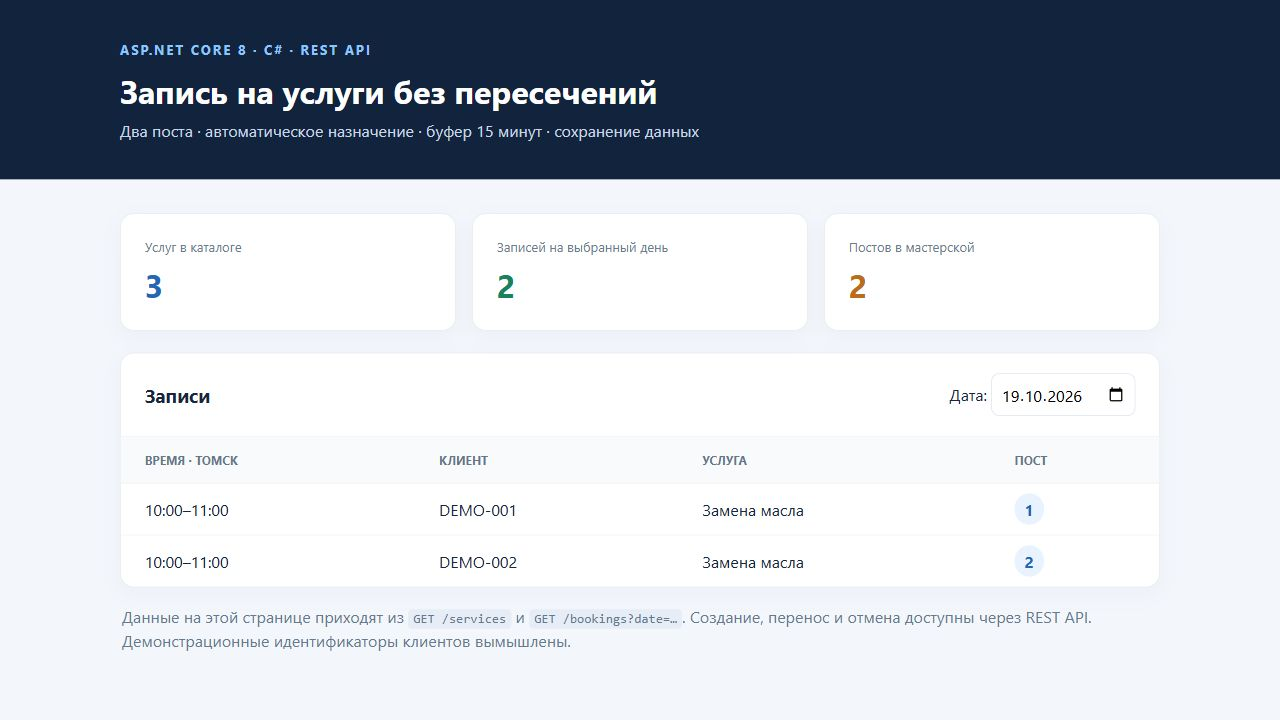
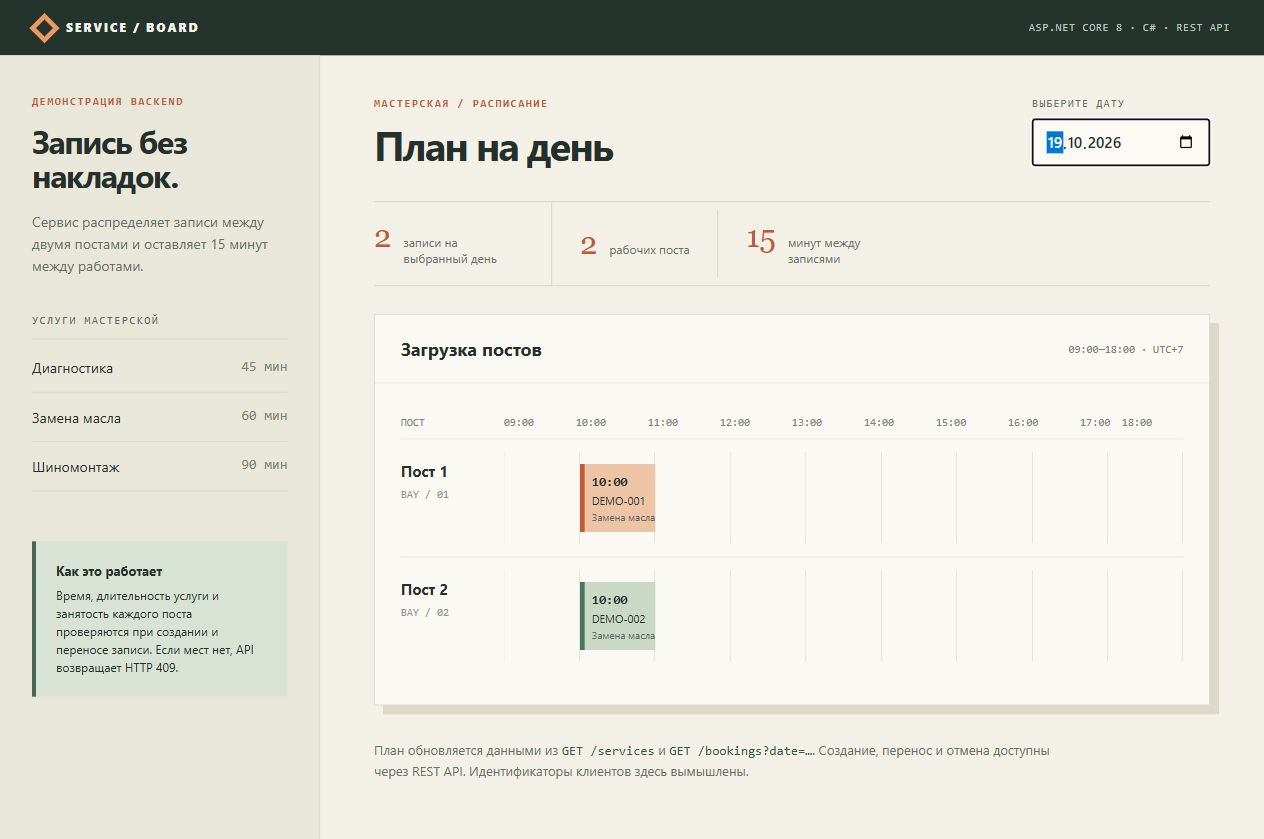
Redesign booking demo as workshop schedule

diff --git a/BookingApi/wwwroot/index.html b/BookingApi/wwwroot/index.html
@@ -3,79 +3,137 @@
 <head>
   <meta charset="utf-8">
   <meta name="viewport" content="width=device-width, initial-scale=1">
-  <title>Service Booking API — демонстрация</title>
+  <title>Service Booking API — расписание мастерской</title>
   <style>
-    :root { color-scheme: light; font-family: Inter, Segoe UI, Arial, sans-serif; }
-    body { margin: 0; background: #f3f6fb; color: #18263b; }
-    header { background: #12243d; color: white; padding: 38px max(30px, calc((100vw - 1040px)/2)); }
-    header small { letter-spacing: .14em; color: #8ec5ff; font-weight: 700; }
-    h1 { margin: 10px 0 8px; font-size: 32px; }
-    header p { margin: 0; color: #c9d6e7; }
-    main { max-width: 1040px; margin: 34px auto; padding: 0 20px; }
-    .cards { display: grid; grid-template-columns: repeat(3, 1fr); gap: 16px; }
-    .card, .panel { background: white; border: 1px solid #e3e9f1; border-radius: 14px; box-shadow: 0 7px 22px #1b365008; }
-    .card { padding: 24px; }
-    .label { color: #6b7b90; font-size: 13px; }
-    .value { font-size: 32px; font-weight: 700; margin-top: 8px; }
-    .blue { color: #2366b6; } .green { color: #18825e; } .orange { color: #bc6a1c; }
-    .panel { margin-top: 22px; overflow: hidden; }
-    .panel-header { display: flex; align-items: center; justify-content: space-between; padding: 20px 24px; }
-    h2 { margin: 0; font-size: 19px; }
-    input { border: 1px solid #d8e1ed; border-radius: 8px; padding: 9px; font: inherit; }
-    table { border-collapse: collapse; width: 100%; }
-    th, td { text-align: left; padding: 15px 24px; border-top: 1px solid #edf1f6; }
-    th { background: #f8fafc; font-size: 12px; color: #65768a; text-transform: uppercase; }
-    .badge { background: #e9f3ff; color: #2366b6; border-radius: 999px; padding: 5px 10px; font-weight: 700; }
-    .note { color: #667990; margin: 17px 2px; line-height: 1.5; }
-    code { background: #e7edf6; padding: 2px 5px; border-radius: 4px; }
-    @media (max-width: 650px) { .cards { grid-template-columns: 1fr; } th,td { padding: 12px; } .panel-header { display: block; } input { margin-top: 12px; } }
+    :root { font-family: "Segoe UI", Arial, sans-serif; color: #26302b; background: #f3f0e8; }
+    * { box-sizing: border-box; }
+    body { margin: 0; }
+    .masthead { height: 55px; display: flex; align-items: center; justify-content: space-between; padding: 0 34px; background: #24342d; color: #f4f1e8; }
+    .brand { display: flex; align-items: center; gap: 11px; font-size: 12px; font-weight: 800; letter-spacing: .16em; }
+    .brand-mark { width: 21px; height: 21px; border: 5px solid #ec9a64; transform: rotate(45deg); }
+    .masthead-note { font-family: Consolas, monospace; font-size: 11px; letter-spacing: .06em; color: #b9c8b9; }
+    .layout { max-width: 1440px; min-height: calc(100vh - 55px); margin: auto; display: grid; grid-template-columns: 320px minmax(0, 1fr); }
+    aside { padding: 40px 32px; background: #e9e6da; border-right: 1px solid #d4d0c4; }
+    .eyebrow { color: #bd5b37; font-family: Consolas, monospace; font-size: 11px; font-weight: 700; letter-spacing: .14em; text-transform: uppercase; }
+    aside h1 { font-size: 32px; line-height: 1.08; letter-spacing: -.045em; margin: 16px 0 18px; }
+    .intro { color: #647066; line-height: 1.55; font-size: 14px; margin: 0 0 38px; }
+    .section-title { color: #5c675d; font-family: Consolas, monospace; font-size: 11px; letter-spacing: .13em; text-transform: uppercase; border-bottom: 1px solid #c9cabf; padding-bottom: 12px; margin-bottom: 4px; }
+    .service { display: flex; justify-content: space-between; gap: 12px; padding: 15px 0; border-bottom: 1px solid #d4d1c7; font-size: 14px; }
+    .service span:last-child { color: #777e72; font-family: Consolas, monospace; white-space: nowrap; }
+    .sidebar-bottom { margin-top: 50px; padding: 20px; background: #d9e3d5; border-left: 4px solid #476755; font-size: 12px; line-height: 1.5; }
+    .sidebar-bottom strong { display: block; font-size: 13px; margin-bottom: 6px; }
+    .workspace { min-width: 0; padding: 42px 54px 45px; }
+    .topline { display: flex; align-items: end; justify-content: space-between; gap: 25px; }
+    .topline h2 { font-size: 40px; letter-spacing: -.05em; margin: 12px 0 0; line-height: 1.1; }
+    .date-control { display: flex; flex-direction: column; gap: 9px; color: #667167; font-family: Consolas, monospace; font-size: 11px; text-transform: uppercase; letter-spacing: .1em; }
+    .date-control input { appearance: none; border: 1px solid #babfb4; background: #fbfaf5; color: #26302b; padding: 12px 14px; min-width: 178px; font: 600 15px "Segoe UI", Arial, sans-serif; border-radius: 2px; }
+    .summary { display: flex; gap: 0; align-items: center; margin: 35px 0 28px; border-top: 1px solid #c9c9bd; border-bottom: 1px solid #c9c9bd; }
+    .stat { display: flex; align-items: baseline; gap: 12px; padding: 19px 28px 19px 0; margin-right: 28px; border-right: 1px solid #c9c9bd; }
+    .stat:last-child { border-right: 0; }
+    .stat strong { color: #bd5b37; font-family: Georgia, serif; font-size: 31px; font-weight: 400; line-height: 1; }
+    .stat span { max-width: 120px; color: #667167; font-size: 12px; line-height: 1.35; }
+    .board { background: #faf9f4; border: 1px solid #d3d0c5; box-shadow: 9px 9px 0 #dcd8ca; }
+    .board-title { padding: 22px 26px; display: flex; justify-content: space-between; align-items: center; border-bottom: 1px solid #dedbd0; }
+    .board-title h3 { font-size: 18px; margin: 0; }
+    .board-title small { color: #788077; font-family: Consolas, monospace; font-size: 11px; }
+    .board-scroll { overflow-x: auto; padding: 0 26px 30px; }
+    .ruler, .lane { display: grid; grid-template-columns: 104px minmax(650px, 1fr); }
+    .ruler { height: 55px; align-items: end; padding-bottom: 10px; color: #7c8378; font-family: Consolas, monospace; font-size: 11px; }
+    .ticks { display: flex; justify-content: space-between; transform: translateX(-1px); }
+    .ticks span:last-child { transform: translateX(-100%); }
+    .lane { min-height: 118px; align-items: stretch; border-top: 1px solid #dcded4; }
+    .lane-label { padding-top: 22px; }
+    .lane-label strong { display: block; font-size: 15px; }
+    .lane-label span { display: block; color: #8b9388; font-family: Consolas, monospace; font-size: 11px; margin-top: 7px; }
+    .track { position: relative; margin: 13px 0; background: repeating-linear-gradient(to right, transparent 0, transparent calc(11.111% - 1px), #e4e5dc calc(11.111% - 1px), #e4e5dc 11.111%); }
+    .appointment { position: absolute; top: 12px; min-width: 68px; height: 68px; padding: 10px 7px; background: #eec4a6; border-left: 5px solid #c25c37; overflow: hidden; white-space: nowrap; }
+    .lane:nth-child(2) .appointment { background: #c9d9c5; border-left-color: #4d755d; }
+    .appointment b { display: block; font-family: Consolas, monospace; font-size: 13px; }
+    .appointment span { display: block; overflow: hidden; text-overflow: ellipsis; margin-top: 4px; font-size: 11px; }
+    .appointment em { display: block; color: #5c655c; font-size: 10px; font-style: normal; margin-top: 2px; }
+    .empty { color: #9aa198; font-size: 12px; padding-top: 30px; }
+    .note { margin-top: 34px; max-width: 690px; color: #667167; font-size: 13px; line-height: 1.6; }
+    code { font-family: Consolas, monospace; color: #345948; }
+    @media (max-width: 900px) { .layout { grid-template-columns: 1fr; } aside { padding: 28px; } aside h1 { max-width: 460px; } .intro { margin-bottom: 22px; } .sidebar-bottom { margin-top: 22px; } .workspace { padding: 30px 22px; } }
+    @media (max-width: 560px) { .masthead { padding: 0 18px; } .masthead-note { display: none; } .topline { display: block; } .topline h2 { font-size: 33px; margin-bottom: 22px; } .summary { gap: 10px; } .stat { display: block; padding-right: 10px; margin-right: 0; flex: 1; } .stat strong { display: block; margin-bottom: 4px; } .stat span { display: block; font-size: 11px; } .board-scroll { padding: 0 16px 24px; } }
   </style>
 </head>
 <body>
-  <header><small>ASP.NET CORE 8 · C# · REST API</small><h1>Запись на услуги без пересечений</h1><p>Два поста · автоматическое назначение · буфер 15 минут · сохранение данных</p></header>
-  <main>
-    <div class="cards">
-      <div class="card"><div class="label">Услуг в каталоге</div><div id="services-count" class="value blue">—</div></div>
-      <div class="card"><div class="label">Записей на выбранный день</div><div id="bookings-count" class="value green">—</div></div>
-      <div class="card"><div class="label">Постов в мастерской</div><div class="value orange">2</div></div>
-    </div>
-    <section class="panel"><div class="panel-header"><h2>Записи</h2><label>Дата: <input id="date" type="date" value="2026-10-19"></label></div>
-      <table><thead><tr><th>Время · Томск</th><th>Клиент</th><th>Услуга</th><th>Пост</th></tr></thead><tbody id="rows"></tbody></table>
-    </section>
-    <p class="note">Данные на этой странице приходят из <code>GET /services</code> и <code>GET /bookings?date=…</code>. Создание, перенос и отмена доступны через REST API. Демонстрационные идентификаторы клиентов вымышлены.</p>
-  </main>
+  <div class="masthead"><div class="brand"><span class="brand-mark" aria-hidden="true"></span> SERVICE / BOARD</div><span class="masthead-note">ASP.NET CORE 8 · C# · REST API</span></div>
+  <div class="layout">
+    <aside>
+      <div class="eyebrow">Демонстрация backend</div>
+      <h1>Запись без накладок.</h1>
+      <p class="intro">Сервис распределяет записи между двумя постами и оставляет 15 минут между работами.</p>
+      <div class="section-title">Услуги мастерской</div>
+      <div id="services"></div>
+      <div class="sidebar-bottom"><strong>Как это работает</strong>Время, длительность услуги и занятость каждого поста проверяются при создании и переносе записи. Если мест нет, API возвращает HTTP 409.</div>
+    </aside>
+    <main class="workspace">
+      <div class="topline"><div><div class="eyebrow">Мастерская / расписание</div><h2>План на день</h2></div><label class="date-control">Выберите дату<input id="date" type="date" value="2026-10-19"></label></div>
+      <div class="summary"><div class="stat"><strong id="bookings-count">—</strong><span>записи на выбранный день</span></div><div class="stat"><strong>2</strong><span>рабочих поста</span></div><div class="stat"><strong>15</strong><span>минут между записями</span></div></div>
+      <section class="board" aria-label="Расписание постов"><div class="board-title"><h3>Загрузка постов</h3><small>09:00—18:00 · UTC+7</small></div><div class="board-scroll"><div class="ruler"><span>ПОСТ</span><div class="ticks" id="ticks"></div></div><div id="lanes"></div></div></section>
+      <p class="note">План обновляется данными из <code>GET /services</code> и <code>GET /bookings?date=…</code>. Создание, перенос и отмена доступны через REST API. Идентификаторы клиентов здесь вымышлены.</p>
+    </main>
+  </div>
   <script>
-    const date = document.querySelector('#date');
-    const rows = document.querySelector('#rows');
-    const names = new Map();
+    const dateInput = document.querySelector('#date');
+    const serviceList = document.querySelector('#services');
+    const lanes = document.querySelector('#lanes');
+    const ticks = document.querySelector('#ticks');
+    const serviceNames = new Map();
+    for (let hour = 9; hour <= 18; hour++) {
+      const mark = document.createElement('span');
+      mark.textContent = String(hour).padStart(2, '0') + ':00';
+      ticks.append(mark);
+    }
+    function node(tag, className, text) {
+      const element = document.createElement(tag);
+      if (className) element.className = className;
+      if (text !== undefined) element.textContent = text;
+      return element;
+    }
     async function load() {
       try {
         const [servicesResponse, bookingsResponse] = await Promise.all([
-          fetch('/services'), fetch('/bookings?date=' + encodeURIComponent(date.value))
+          fetch('/services'), fetch('/bookings?date=' + encodeURIComponent(dateInput.value))
         ]);
         if (!servicesResponse.ok || !bookingsResponse.ok) throw new Error('API недоступен');
-        const services = await servicesResponse.json();
-        const bookings = await bookingsResponse.json();
-        services.forEach(s => names.set(s.code, s.name));
-        document.querySelector('#services-count').textContent = String(services.length);
+        const [services, bookings] = await Promise.all([servicesResponse.json(), bookingsResponse.json()]);
+        serviceList.replaceChildren();
+        services.forEach(service => {
+          serviceNames.set(service.code, service.name);
+          const row = node('div', 'service');
+          row.append(node('span', '', service.name), node('span', '', service.minutes + ' мин'));
+          serviceList.append(row);
+        });
         document.querySelector('#bookings-count').textContent = String(bookings.length);
-        rows.replaceChildren();
-        for (const booking of bookings) {
-          const tr = document.createElement('tr');
-          const values = [booking.startsAt.slice(11, 16) + '–' + booking.endsAt.slice(11, 16),
-            booking.customerRef, names.get(booking.serviceCode) ?? booking.serviceCode, String(booking.bay)];
-          values.forEach((value, index) => {
-            const td = document.createElement('td');
-            if (index === 3) { const span = document.createElement('span'); span.className = 'badge'; span.textContent = value; td.append(span); }
-            else td.textContent = value;
-            tr.append(td);
-          });
-          rows.append(tr);
+        lanes.replaceChildren();
+        for (let bay = 1; bay <= 2; bay++) {
+          const lane = node('div', 'lane');
+          const label = node('div', 'lane-label');
+          label.append(node('strong', '', 'Пост ' + String(bay)), node('span', '', bay === 1 ? 'BAY / 01' : 'BAY / 02'));
+          const track = node('div', 'track');
+          const assigned = bookings.filter(booking => booking.bay === bay);
+          for (const booking of assigned) {
+            const start = booking.startsAt.slice(11, 16);
+            const end = booking.endsAt.slice(11, 16);
+            const startMinute = Number(start.slice(0, 2)) * 60 + Number(start.slice(3));
+            const endMinute = Number(end.slice(0, 2)) * 60 + Number(end.slice(3));
+            const card = node('div', 'appointment');
+            card.style.left = ((startMinute - 540) / 540 * 100) + '%';
+            card.style.width = ((endMinute - startMinute) / 540 * 100) + '%';
+            card.title = `${start}–${end} · ${booking.customerRef} · ${serviceNames.get(booking.serviceCode) ?? booking.serviceCode}`;
+            card.append(node('b', '', start), node('span', '', booking.customerRef), node('em', '', serviceNames.get(booking.serviceCode) ?? booking.serviceCode));
+            track.append(card);
+          }
+          if (!assigned.length) track.append(node('div', 'empty', 'Свободен весь день'));
+          lane.append(label, track);
+          lanes.append(lane);
         }
-        if (!bookings.length) { const tr = document.createElement('tr'); const td = document.createElement('td'); td.colSpan = 4; td.textContent = 'Записей нет'; tr.append(td); rows.append(tr); }
-      } catch (error) { rows.textContent = error.message; }
+      } catch (error) { lanes.replaceChildren(node('p', 'empty', error.message)); }
     }
-    date.addEventListener('change', load);
+    dateInput.addEventListener('change', load);
     load();
   </script>
 </body>
